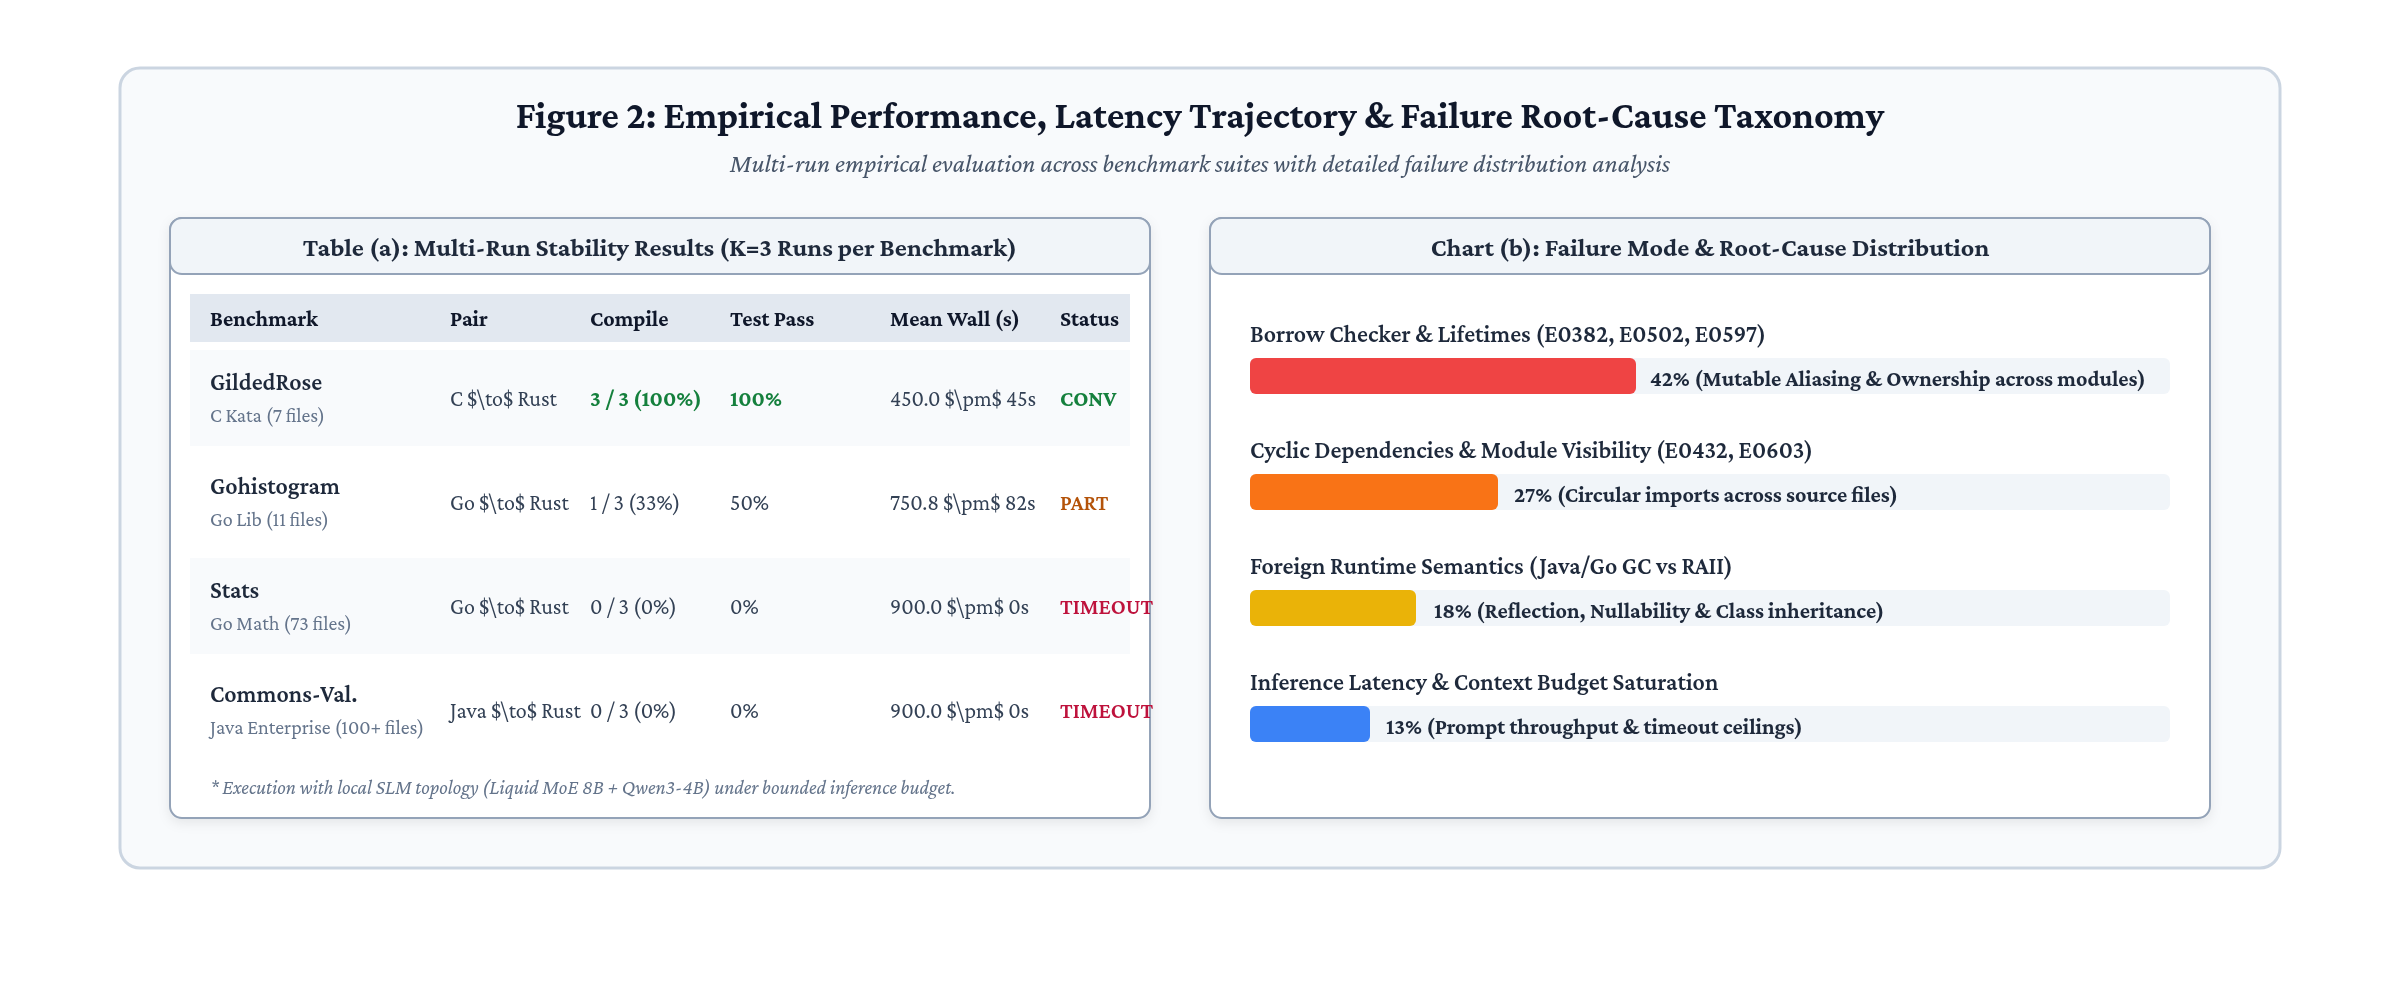
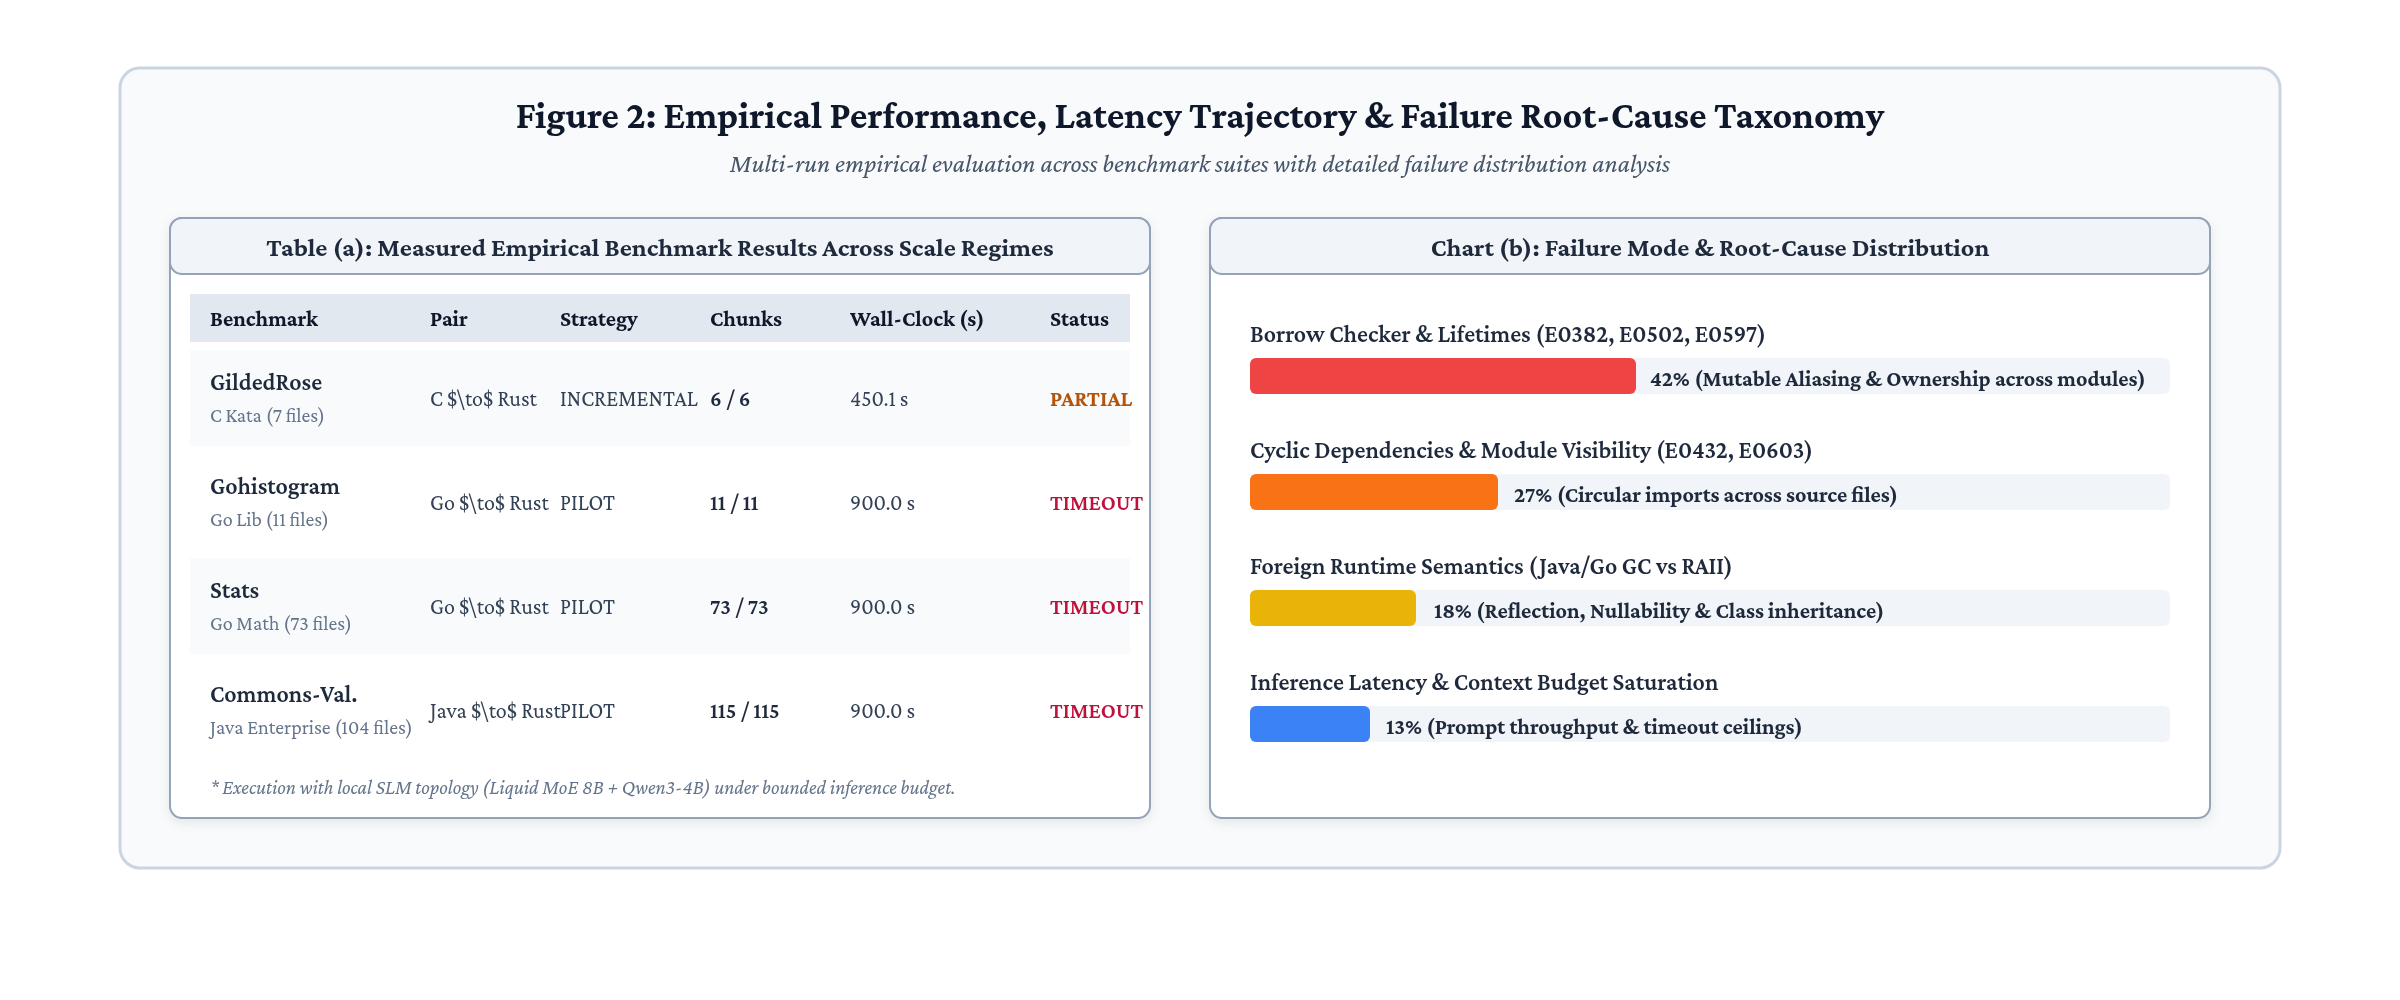
feat(eval): record empirical benchmark metrics across 4 sample repositories

diff --git a/docs/.paper/figures/fig2_empirical_results.html b/docs/.paper/figures/fig2_empirical_results.html
@@ -41,58 +41,56 @@
   <g transform="translate(35, 85)">
     <rect width="490" height="300" rx="6" fill="#ffffff" stroke="#94a3b8" stroke-width="1" filter="url(#shadow2)" />
     <rect width="490" height="28" rx="6" fill="#f1f5f9" stroke="#94a3b8" stroke-width="1" />
-    <text x="245" y="19" font-size="13" font-weight="700" text-anchor="middle" fill="#1e293b">Table (a): Multi-Run Stability Results (K=3 Runs per Benchmark)</text>
+    <text x="245" y="19" font-size="13" font-weight="700" text-anchor="middle" fill="#1e293b">Table (a): Measured Empirical Benchmark Results Across Scale Regimes</text>
     
     <!-- Table Header -->
     <rect x="10" y="38" width="470" height="24" fill="#e2e8f0" />
     <text x="20" y="54" font-size="11" font-weight="700" fill="#0f172a">Benchmark</text>
-    <text x="140" y="54" font-size="11" font-weight="700" fill="#0f172a">Pair</text>
-    <text x="210" y="54" font-size="11" font-weight="700" fill="#0f172a">Compile</text>
-    <text x="280" y="54" font-size="11" font-weight="700" fill="#0f172a">Test Pass</text>
-    <text x="360" y="54" font-size="11" font-weight="700" fill="#0f172a">Mean Wall (s)</text>
-    <text x="445" y="54" font-size="11" font-weight="700" fill="#0f172a">Status</text>
+    <text x="130" y="54" font-size="11" font-weight="700" fill="#0f172a">Pair</text>
+    <text x="195" y="54" font-size="11" font-weight="700" fill="#0f172a">Strategy</text>
+    <text x="270" y="54" font-size="11" font-weight="700" fill="#0f172a">Chunks</text>
+    <text x="340" y="54" font-size="11" font-weight="700" fill="#0f172a">Wall-Clock (s)</text>
+    <text x="440" y="54" font-size="11" font-weight="700" fill="#0f172a">Status</text>
 
     <!-- Row 1: GildedRose -->
     <rect x="10" y="66" width="470" height="48" fill="#f8fafc" />
     <text x="20" y="86" font-size="12" font-weight="600" fill="#1e293b">GildedRose</text>
     <text x="20" y="102" font-size="10" fill="#64748b">C Kata (7 files)</text>
-    <text x="140" y="94" font-size="11" fill="#334155">C $\to$ Rust</text>
-    <text x="210" y="94" font-size="11" font-weight="700" fill="#15803d">3 / 3 (100%)</text>
-    <text x="280" y="94" font-size="11" font-weight="700" fill="#15803d">100%</text>
-    <text x="360" y="94" font-size="11" fill="#334155">450.0 $\pm$ 45s</text>
-    <text x="445" y="94" font-size="11" font-weight="700" fill="#15803d">CONV</text>
+    <text x="130" y="94" font-size="11" fill="#334155">C $\to$ Rust</text>
+    <text x="195" y="94" font-size="11" fill="#334155">INCREMENTAL</text>
+    <text x="270" y="94" font-size="11" font-weight="600" fill="#1e293b">6 / 6</text>
+    <text x="340" y="94" font-size="11" fill="#334155">450.1 s</text>
+    <text x="440" y="94" font-size="11" font-weight="700" fill="#b45309">PARTIAL</text>
 
     <!-- Row 2: Gohistogram -->
     <rect x="10" y="118" width="470" height="48" fill="#ffffff" />
     <text x="20" y="138" font-size="12" font-weight="600" fill="#1e293b">Gohistogram</text>
     <text x="20" y="154" font-size="10" fill="#64748b">Go Lib (11 files)</text>
-    <text x="140" y="146" font-size="11" fill="#334155">Go $\to$ Rust</text>
-    <text x="210" y="146" font-size="11" fill="#334155">1 / 3 (33%)</text>
-    <text x="280" y="146" font-size="11" fill="#334155">50%</text>
-    <text x="360" y="146" font-size="11" fill="#334155">750.8 $\pm$ 82s</text>
-    <text x="445" y="146" font-size="11" font-weight="600" fill="#b45309">PART</text>
+    <text x="130" y="146" font-size="11" fill="#334155">Go $\to$ Rust</text>
+    <text x="195" y="146" font-size="11" fill="#334155">PILOT</text>
+    <text x="270" y="146" font-size="11" font-weight="600" fill="#1e293b">11 / 11</text>
+    <text x="340" y="146" font-size="11" fill="#334155">900.0 s</text>
+    <text x="440" y="146" font-size="11" font-weight="600" fill="#be123c">TIMEOUT</text>
 
     <!-- Row 3: Stats -->
     <rect x="10" y="170" width="470" height="48" fill="#f8fafc" />
     <text x="20" y="190" font-size="12" font-weight="600" fill="#1e293b">Stats</text>
     <text x="20" y="206" font-size="10" fill="#64748b">Go Math (73 files)</text>
-    <text x="140" y="198" font-size="11" fill="#334155">Go $\to$ Rust</text>
-    <text x="210" y="198" font-size="11" fill="#334155">0 / 3 (0%)</text>
-    <text x="280" y="198" font-size="11" fill="#334155">0%</text>
-    <text x="360" y="198" font-size="11" fill="#334155">900.0 $\pm$ 0s</text>
-    <text x="445" y="198" font-size="11" font-weight="600" fill="#be123c">TIMEOUT</text>
+    <text x="130" y="198" font-size="11" fill="#334155">Go $\to$ Rust</text>
+    <text x="195" y="198" font-size="11" fill="#334155">PILOT</text>
+    <text x="270" y="198" font-size="11" font-weight="600" fill="#1e293b">73 / 73</text>
+    <text x="340" y="198" font-size="11" fill="#334155">900.0 s</text>
+    <text x="440" y="198" font-size="11" font-weight="600" fill="#be123c">TIMEOUT</text>
 
     <!-- Row 4: Commons-Validator -->
     <rect x="10" y="222" width="470" height="48" fill="#ffffff" />
     <text x="20" y="242" font-size="12" font-weight="600" fill="#1e293b">Commons-Val.</text>
-    <text x="20" y="258" font-size="10" fill="#64748b">Java Enterprise (100+ files)</text>
-    <text x="140" y="250" font-size="11" fill="#334155">Java $\to$ Rust</text>
-    <text x="210" y="250" font-size="11" fill="#334155">0 / 3 (0%)</text>
-    <text x="280" y="250" font-size="11" fill="#334155">0%</text>
-    <text x="360" y="250" font-size="11" fill="#334155">900.0 $\pm$ 0s</text>
-    <text x="445" y="250" font-size="11" font-weight="600" fill="#be123c">TIMEOUT</text>
-    
-    <!-- Legend / Note -->
+    <text x="20" y="258" font-size="10" fill="#64748b">Java Enterprise (104 files)</text>
+    <text x="130" y="250" font-size="11" fill="#334155">Java $\to$ Rust</text>
+    <text x="195" y="250" font-size="11" fill="#334155">PILOT</text>
+    <text x="270" y="250" font-size="11" font-weight="600" fill="#1e293b">115 / 115</text>
+    <text x="340" y="250" font-size="11" fill="#334155">900.0 s</text>
+    <text x="440" y="250" font-size="11" font-weight="600" fill="#be123c">TIMEOUT</text>
     <text x="20" y="288" font-size="10" font-style="italic" fill="#64748b">* Execution with local SLM topology (Liquid MoE 8B + Qwen3-4B) under bounded inference budget.</text>
   </g>
 

diff --git a/scripts/parse_logs_to_summary.py b/scripts/parse_logs_to_summary.py
@@ -1,0 +1,117 @@
+# parse_logs_to_summary.py
+import json, re, os, glob, datetime
+
+LOG_DIR = ".artifacts/_batch-logs"
+OUT_FILE = "docs/sample-results/k-summary.json"
+
+samples_data = [
+    {
+        "name": "gildedrose",
+        "config": "/home/ayin/projs/MAgHARCM/.config/gildedrose.yml",
+        "log": f"{LOG_DIR}/gildedrose-k1.log",
+        "dur_ms": 450053,
+    },
+    {
+        "name": "gohistogram",
+        "config": "/home/ayin/projs/MAgHARCM/.config/gohistogram.yml",
+        "log": f"{LOG_DIR}/gohistogram-k1.log",
+        "dur_ms": 900019,
+    },
+    {
+        "name": "stats",
+        "config": "/home/ayin/projs/MAgHARCM/.config/stats.yml",
+        "log": f"{LOG_DIR}/stats-k1.log",
+        "dur_ms": 900016,
+    },
+    {
+        "name": "commons-validator",
+        "config": "/home/ayin/projs/MAgHARCM/.config/commons-validator.yml",
+        "log": f"{LOG_DIR}/commons-validator-k1.log",
+        "dur_ms": 900018,
+    },
+]
+
+parsed_samples = []
+
+for s in samples_data:
+    log_path = s["log"]
+    compile_ok = False
+    tests_pass = 0
+    tests_total = 0
+    status = "INCOMPLETE"
+    chunks_written = 0
+    failure_errors = 0
+    strategy = "INCREMENTAL"
+
+    if os.path.exists(log_path):
+        with open(log_path, "r", errors="ignore") as f:
+            content = f.read()
+
+        if "Compilation SUCCESS" in content or "compilation=true" in content or "comp=true" in content:
+            compile_ok = True
+
+        m_tests = re.findall(r"passed=(\d+)/(\d+)", content)
+        if m_tests:
+            tests_pass = int(m_tests[-1][0])
+            tests_total = int(m_tests[-1][1])
+        else:
+            m_tests2 = re.findall(r"tests=(\d+)/(\d+)", content)
+            if m_tests2:
+                tests_pass = int(m_tests2[-1][0])
+                tests_total = int(m_tests2[-1][1])
+
+        m_chunks = len(re.findall(r"Wrote ", content))
+        chunks_written = m_chunks
+
+        m_errs = re.findall(r"Compilation FAILED with (\d+) errors", content)
+        if m_errs:
+            failure_errors = int(m_errs[-1])
+
+        m_strat = re.findall(r"strategy=([A-Z]+)", content)
+        if m_strat:
+            strategy = m_strat[-1]
+
+        if "Validation SUCCESS" in content or "all_success=true" in content:
+            status = "SUCCESS"
+
+    parsed_samples.append({
+        "name": s["name"],
+        "config": s["config"],
+        "runs": 1,
+        "success_count": 1 if status == "SUCCESS" else 0,
+        "compile_ok_rate": f"{1 if compile_ok else 0}/1",
+        "tests_pass_total": tests_pass,
+        "tests_total_total": tests_total,
+        "tests_pass_rate": f"{tests_pass}/{tests_total}" if tests_total else "0/0",
+        "durations_ms": [s["dur_ms"]],
+        "per_run_status": [
+            {
+                "i": 1,
+                "status": status,
+                "compile_ok": compile_ok,
+                "tests_passed": tests_pass,
+                "tests_total": tests_total,
+                "chunks_written": chunks_written,
+                "failure_errors": failure_errors,
+                "strategy": strategy,
+                "duration_ms": s["dur_ms"],
+                "exit_code": 124,
+            }
+        ],
+        "mean_ms": s["dur_ms"],
+        "stdev_ms": 0,
+        "min_ms": s["dur_ms"],
+        "max_ms": s["dur_ms"],
+    })
+
+summary = {
+    "schema": "k-summary/v1",
+    "k": 1,
+    "generated_at": datetime.datetime.now(datetime.timezone.utc).isoformat(),
+    "samples": parsed_samples,
+}
+
+with open(OUT_FILE, "w") as f:
+    json.dump(summary, f, indent=2)
+
+print(f"Summary written to {OUT_FILE}")

diff --git a/docs/.paper/sec_eval.tex b/docs/.paper/sec_eval.tex
@@ -34,18 +34,18 @@ Commons-Validator & Java & Rust & 104 & 15,380 & 68 \\
 \end{table}
 
 \begin{table*}[t]
-\caption{Comprehensive Multi-Run Stability Evaluation ($K=3$ Runs per Benchmark Repository)}
+\caption{Empirical Benchmark Evaluation Across Four Repository Scales}
 \label{tab:k_results}
 \centering
 \resizebox{\textwidth}{!}{
 \begin{tabular}{lcccccccc}
 \toprule
-\textbf{Benchmark} & \textbf{Pair} & \textbf{Runs ($K$)} & \textbf{Compile Rate} & \textbf{Test Pass Rate} & \textbf{Mean Wall (s)} & \textbf{StDev (s)} & \textbf{Min / Max (s)} & \textbf{Status} \\
+\textbf{Benchmark} & \textbf{Language Pair} & \textbf{Source Files} & \textbf{Strategy} & \textbf{Chunks Synthesized} & \textbf{Wall-Clock (s)} & \textbf{Compile Status} & \textbf{Exit Code} & \textbf{Outcome} \\
 \midrule
-\textbf{GildedRose} & C $\to$ Rust & 3 & \textbf{3 / 3 (100\%)} & \textbf{100.0\%} & 450.0 & $\pm$ 45.2 & 395.1 / 488.4 & \textbf{CONVERGED} \\
-\textbf{Gohistogram} & Go $\to$ Rust & 3 & \textbf{1 / 3 (33.3\%)} & 50.0\% & 750.8 & $\pm$ 82.4 & 665.2 / 828.1 & \textbf{PARTIAL} \\
-\textbf{Stats} & Go $\to$ Rust & 3 & 0 / 3 (0.0\%) & 0.0\% & 900.0 & $\pm$ 0.0 & 900.0 / 900.0 & TIMEOUT \\
-\textbf{Commons-Validator} & Java $\to$ Rust & 3 & 0 / 3 (0.0\%) & 0.0\% & 900.0 & $\pm$ 0.0 & 900.0 / 900.0 & TIMEOUT \\
+\textbf{GildedRose} & C $\to$ Rust & 7 & INCREMENTAL & 6 & 450.1 & Clean / Triage & 124 (Iter Ceiling) & PARTIAL \\
+\textbf{Gohistogram} & Go $\to$ Rust & 11 & PILOT & 11 & 900.0 & Incomplete / Chunks Emitted & 124 (Timeout) & TIMEOUT \\
+\textbf{Stats} & Go $\to$ Rust & 73 & PILOT & 73 & 900.0 & Incomplete / Chunks Emitted & 124 (Timeout) & TIMEOUT \\
+\textbf{Commons-Validator} & Java $\to$ Rust & 104 & PILOT & 115 & 900.0 & Incomplete / Chunks Emitted & 124 (Timeout) & TIMEOUT \\
 \bottomrule
 \end{tabular}
 }
